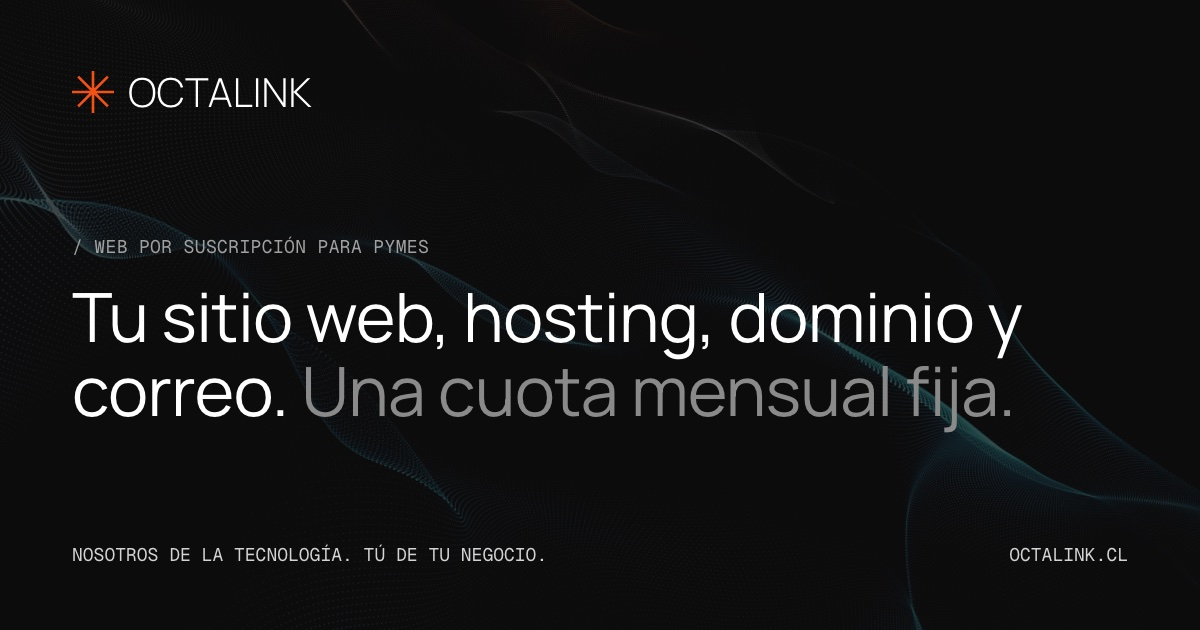
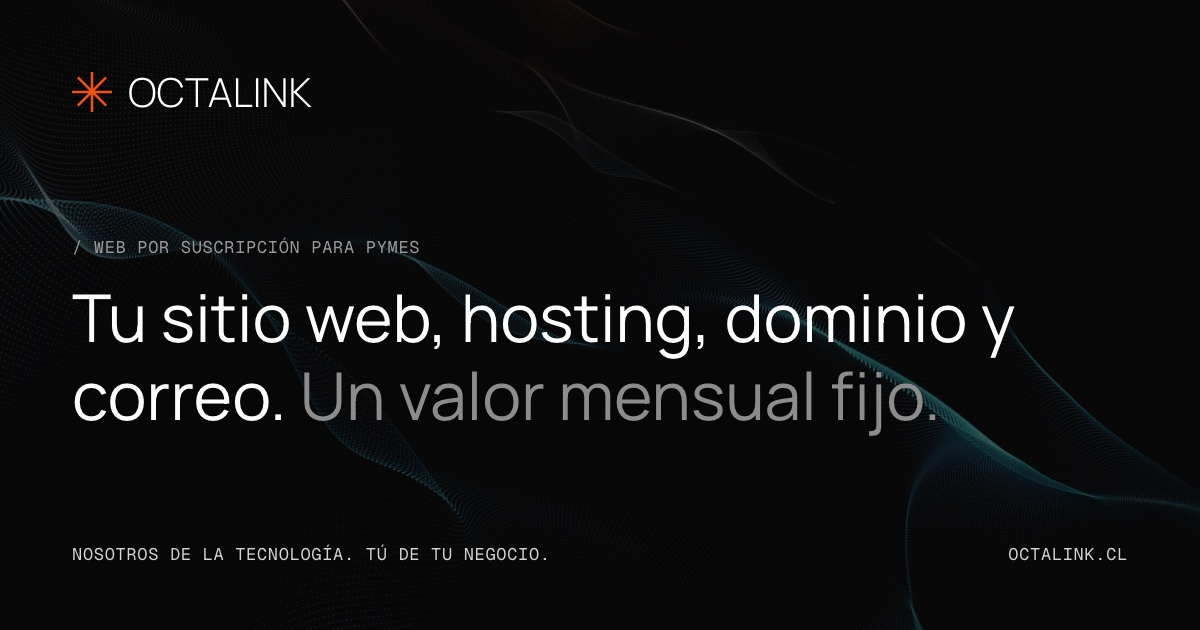
copy: replace "cuota" with "suscripción" and "valor mensual fijo"
- "suscripción" names the model, "valor" names what the client pays
- updated hero, benefits, comparison, pricing, faq, footer and meta tags
- regenerated og image with the new headline
- aligned docs/estrategia.md with the site copy

diff --git a/docs/estrategia.md b/docs/estrategia.md
@@ -16,14 +16,14 @@
 Tu equipo de tecnología, sin contratar un equipo de tecnología.
 
 **Subtítulo:**
-Web, correo, hosting y soporte — una cuota mensual fija. Nosotros respondemos siempre, tú te enfocas en vender.
+Web, correo, hosting y soporte — un valor mensual fijo. Nosotros respondemos siempre, tú te enfocas en vender.
 
 **Botones:**
 - Hablar por WhatsApp →
 - Ver planes
 
 **Trust signals:**
-✓ Lanzamiento en 2-3 semanas · ✓ Cuota fija sin sorpresas · ✓ Sin contrato de permanencia · ✓ Siempre respondemos
+✓ Lanzamiento en 2-3 semanas · ✓ Valor mensual fijo, sin sorpresas · ✓ Sin contrato de permanencia · ✓ Siempre respondemos
 
 ---
 
@@ -71,10 +71,10 @@ Un proceso simple, sin fricción — de diagnóstico a soporte continuo.
 Todo lo que necesitas. Nada de lo que no.
 
 **6 beneficios:**
-- Todo incluido — Web, correo, hosting y SSL en una sola cuota.
+- Todo incluido — Web, correo, hosting y SSL en una sola suscripción.
 - Respuesta rápida — WhatsApp directo, respondemos siempre.
 - Actualización continua — Tu web se actualiza cuando lo necesitas.
-- Cuota fija — Sin sorpresas, sin cobros extras inesperados.
+- Valor mensual fijo — Sin sorpresas, sin cobros extras inesperados.
 - Sin ataduras — Sin contrato largo. 30 días de aviso y listo.
 - Estamos siempre — A diferencia de una agencia tradicional, no desaparecemos.
 
@@ -92,9 +92,9 @@ Agencia tradicional vs. Octalink
 × Soporte por ticket o sin respuesta
 
 **Nosotros:**
-✓ Setup accesible + cuota mensual fija
+✓ Setup accesible + valor mensual fijo
 ✓ Estamos siempre — es nuestra responsabilidad
-✓ Todo incluido en una sola cuota
+✓ Todo incluido en una sola suscripción
 ✓ WhatsApp directo, respuesta garantizada
 
 ---
@@ -169,7 +169,7 @@ Perfecto — ¿quién se encarga de que esté siempre activa, actualizada y func
 **¿Es muy caro para lo que es?**
 ¿Cuánto pagas hoy por hosting, dominio y correos por separado? Si sumas eso más el tiempo que le dedicas a resolver problemas, probablemente ya estás pagando más — y sin el soporte continuo.
 
-**¿Por qué mensual y no un pago único?**
+**¿Por qué una suscripción y no un pago único?**
 Porque una web no es un producto, es un servicio. Como la electricidad o el internet — pagas mientras funciona. Con el pago único te venden algo que envejece y cuando algo falla, quedas solo.
 
 **¿No sé si lo necesito?**
